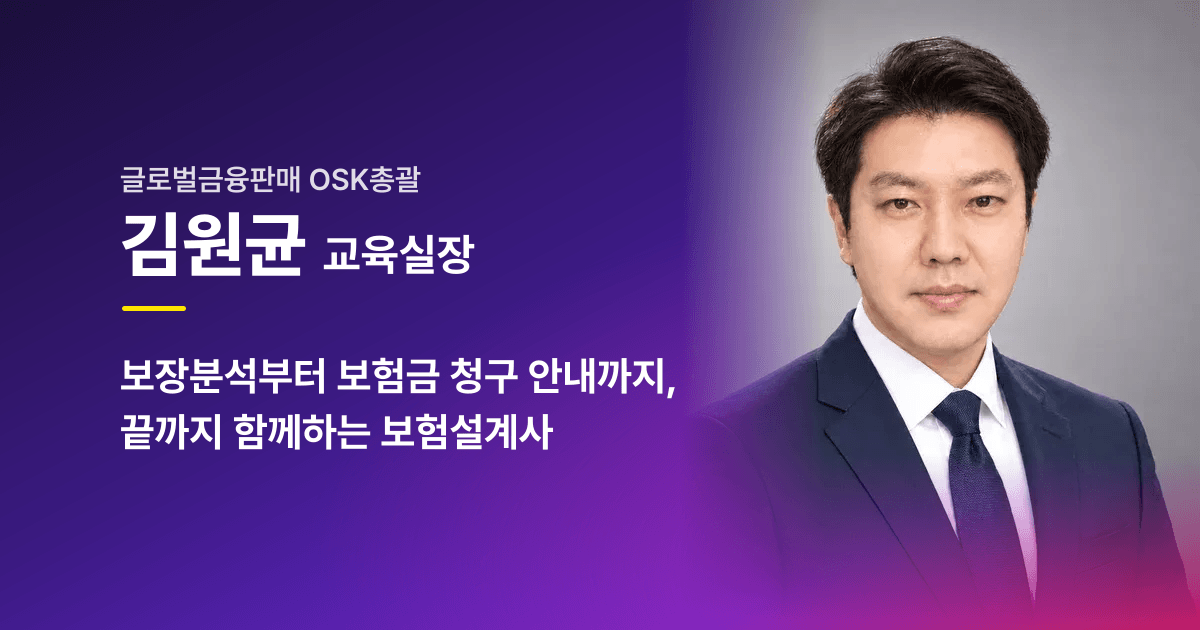
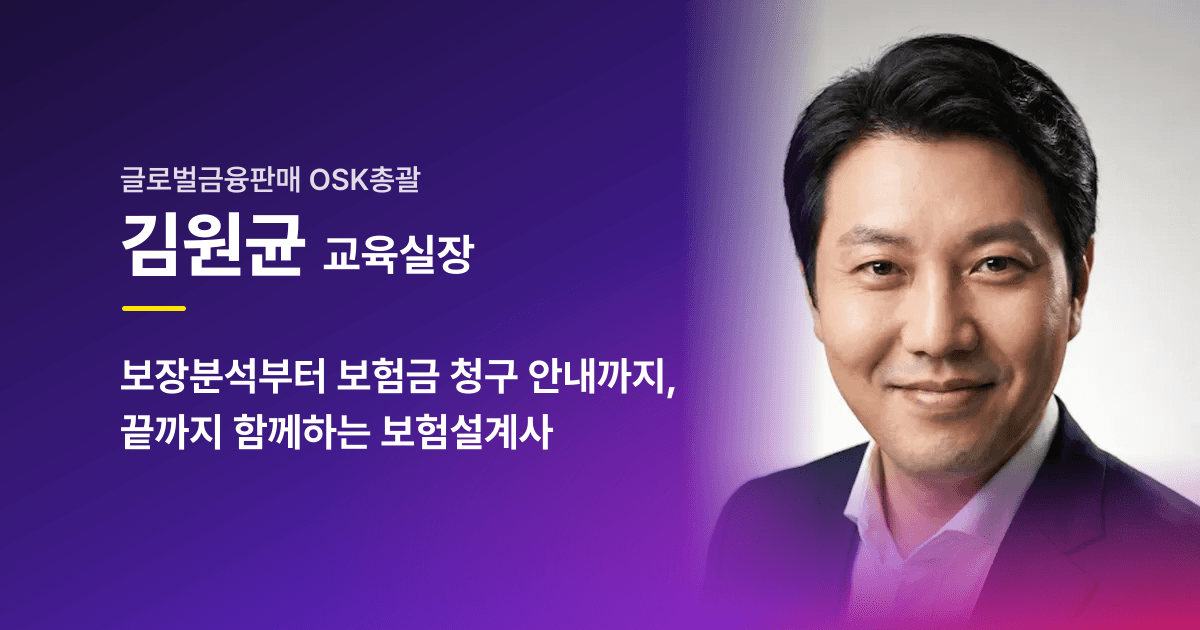
프로필 사진을 세로형 새 사진으로 교체
- 휴대폰 첫 화면: 세로 사진을 가운데에 두고 상하좌우를 배경으로 서서히 이어 붙임
- PC: 4:5 카드 유지, 얼굴 주변 보라 오버레이 제외 영역 조정
- og.png·README 갱신

Claude-Session: https://claude.ai/code/session_012wk9pbG45puwDmKtPunfor

diff --git a/src/components/sections/hero.tsx b/src/components/sections/hero.tsx
@@ -26,21 +26,22 @@ export function Hero() {
       <div className="mx-auto flex min-h-[calc(100svh-var(--header-h)-env(safe-area-inset-top))] w-full max-w-[1120px] flex-col lg:grid lg:min-h-[min(calc(100svh-var(--header-h)),820px)] lg:grid-cols-[minmax(0,5fr)_minmax(0,6fr)] lg:items-center lg:gap-14 lg:px-8 lg:py-12">
         {/* 프로필 사진 */}
         <div className="relative h-[clamp(240px,38svh,380px)] w-full shrink-0 lg:h-auto lg:aspect-[4/5] lg:overflow-hidden lg:rounded-[28px]">
-          <div className="absolute inset-0 [mask-image:linear-gradient(to_bottom,black_70%,transparent)] lg:[mask-image:linear-gradient(to_bottom,black_80%,transparent)]">
+          {/* 휴대폰: 세로 사진을 가운데에 두고 좌우·아래를 배경으로 서서히 이어 붙임 / PC: 4:5 카드 전체 */}
+          <div className="absolute inset-y-0 left-1/2 aspect-[1083/1452] -translate-x-1/2 [mask-composite:intersect] [mask-image:linear-gradient(to_bottom,transparent,black_12%,black_68%,transparent),linear-gradient(to_right,transparent,black_16%,black_84%,transparent)] lg:inset-0 lg:aspect-auto lg:translate-x-0 lg:[mask-image:linear-gradient(to_bottom,black_80%,transparent)]">
             <Image
               src={profile}
               alt={person.photoAlt}
               fill
               preload
               placeholder="blur"
-              sizes="(min-width: 1024px) 440px, 100vw"
+              sizes="(min-width: 1024px) 440px, 300px"
               quality={80}
-              className="object-cover object-[50%_0%]"
+              className="object-cover object-[50%_15%]"
             />
             {/* 회색 배경을 보라로 은은하게 물들임 — 얼굴 주변은 제외 */}
             <div
               aria-hidden="true"
-              className="absolute inset-0 bg-violet-700/25 [mask-image:radial-gradient(ellipse_34%_62%_at_50%_34%,transparent_55%,black_100%)] lg:[mask-image:radial-gradient(ellipse_52%_48%_at_50%_34%,transparent_55%,black_100%)]"
+              className="absolute inset-0 bg-violet-700/25 [mask-image:radial-gradient(ellipse_48%_42%_at_50%_42%,transparent_60%,black_100%)]"
             />
           </div>
         </div>

diff --git a/README.md b/README.md
@@ -31,12 +31,12 @@ pnpm lint
 
 ## 2. 사진 바꾸는 법
 
-- 현재 사진은 의뢰인 제공 원본(1200×630)입니다. 더 큰 원본(가로 2400px 이상)을 받으면 교체를 권장합니다.
+- 현재 사진은 의뢰인 제공 세로형 사진(1083×1452)입니다. 휴대폰에서는 세로 비율 그대로 가운데에 두고 좌우·위아래를 배경으로 서서히 이어 붙이며, PC에서는 4:5 카드로 보여 줍니다.
 - 같은 이름(`public/images/profile.webp`)으로 덮어쓰면 됩니다. 가로 2400px 이상 원본을 WebP(품질 80 내외, 약 200KB 이하)로 변환해 넣는 것을 권장합니다.
   ```bash
   npx sharp-cli -i 원본.jpg -o public/images/profile.webp resize 2400 -- webp --quality 80
   ```
-- 얼굴이 사진 가로 중앙·위쪽에 있는 가로형 사진을 기준으로 잘림 위치(`object-[50%_0%]`)가 맞춰져 있습니다.
+- 비율이 다른 사진으로 바꾸면 `src/components/sections/hero.tsx`의 `aspect-[1083/1452]`를 새 사진의 가로/세로 크기로 바꿔 주세요.
 - 사진을 바꾼 뒤 링크 미리보기 이미지도 다시 만드세요: `pnpm og` → `public/og.png`(1200×630), 파비콘(`src/app/icon.png`, `apple-icon.png`) 재생성. 미리보기 문구는 `scripts/make-og.mjs` 상단 `TEXT`에서 수정합니다.
 
 ## 3. 배포 방법
